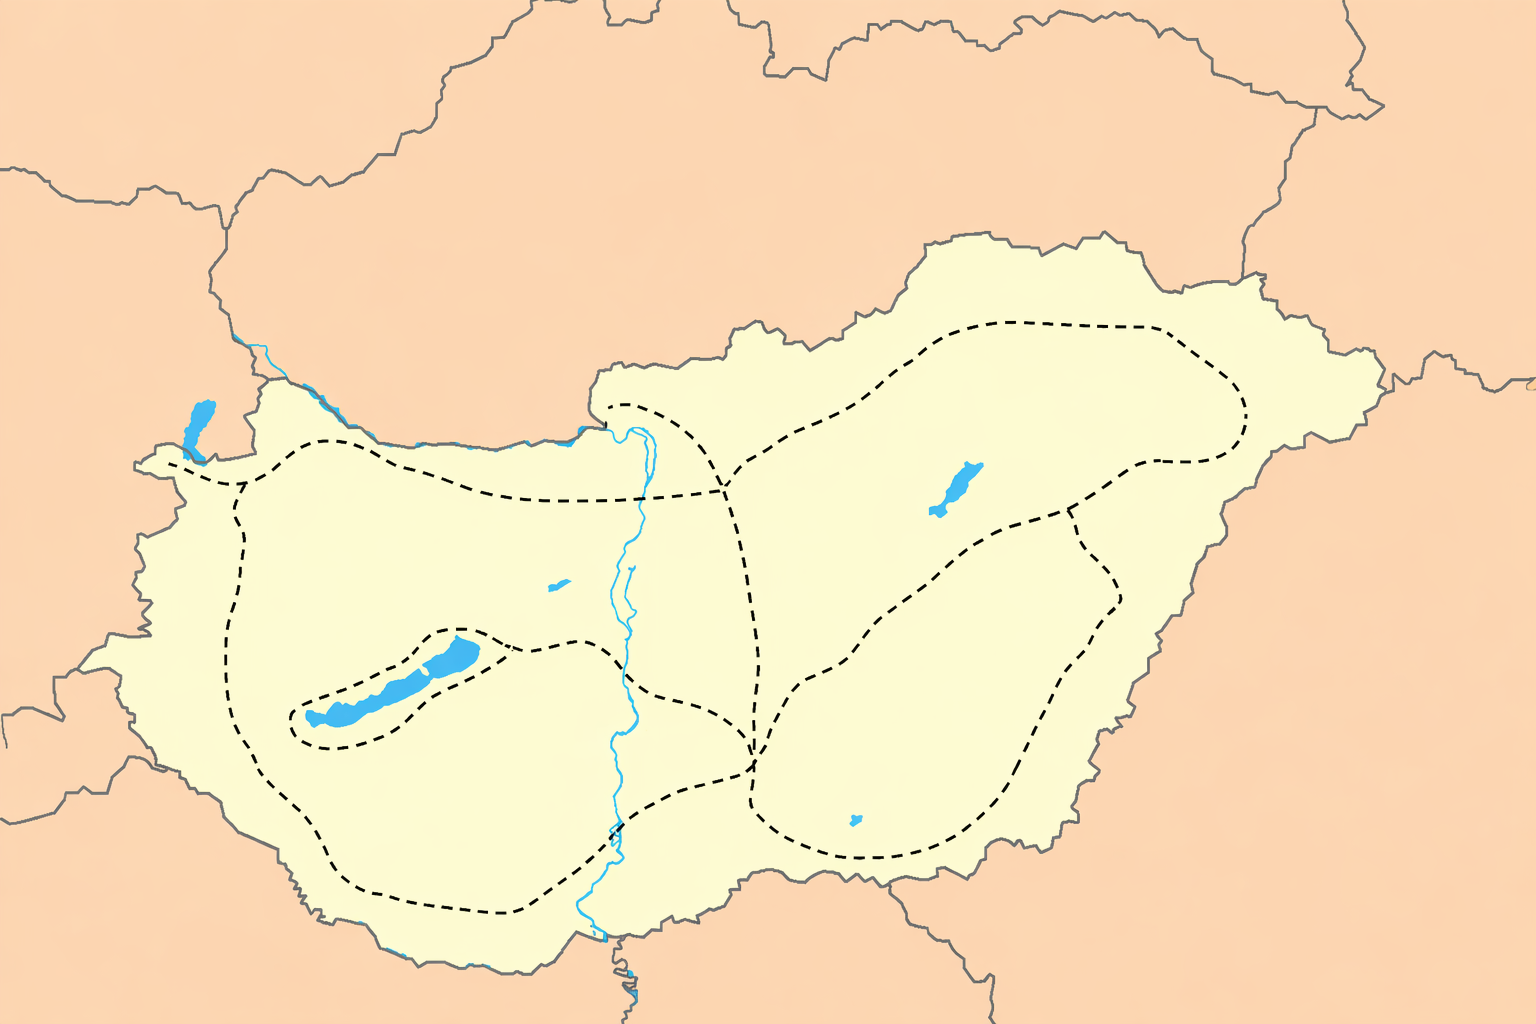
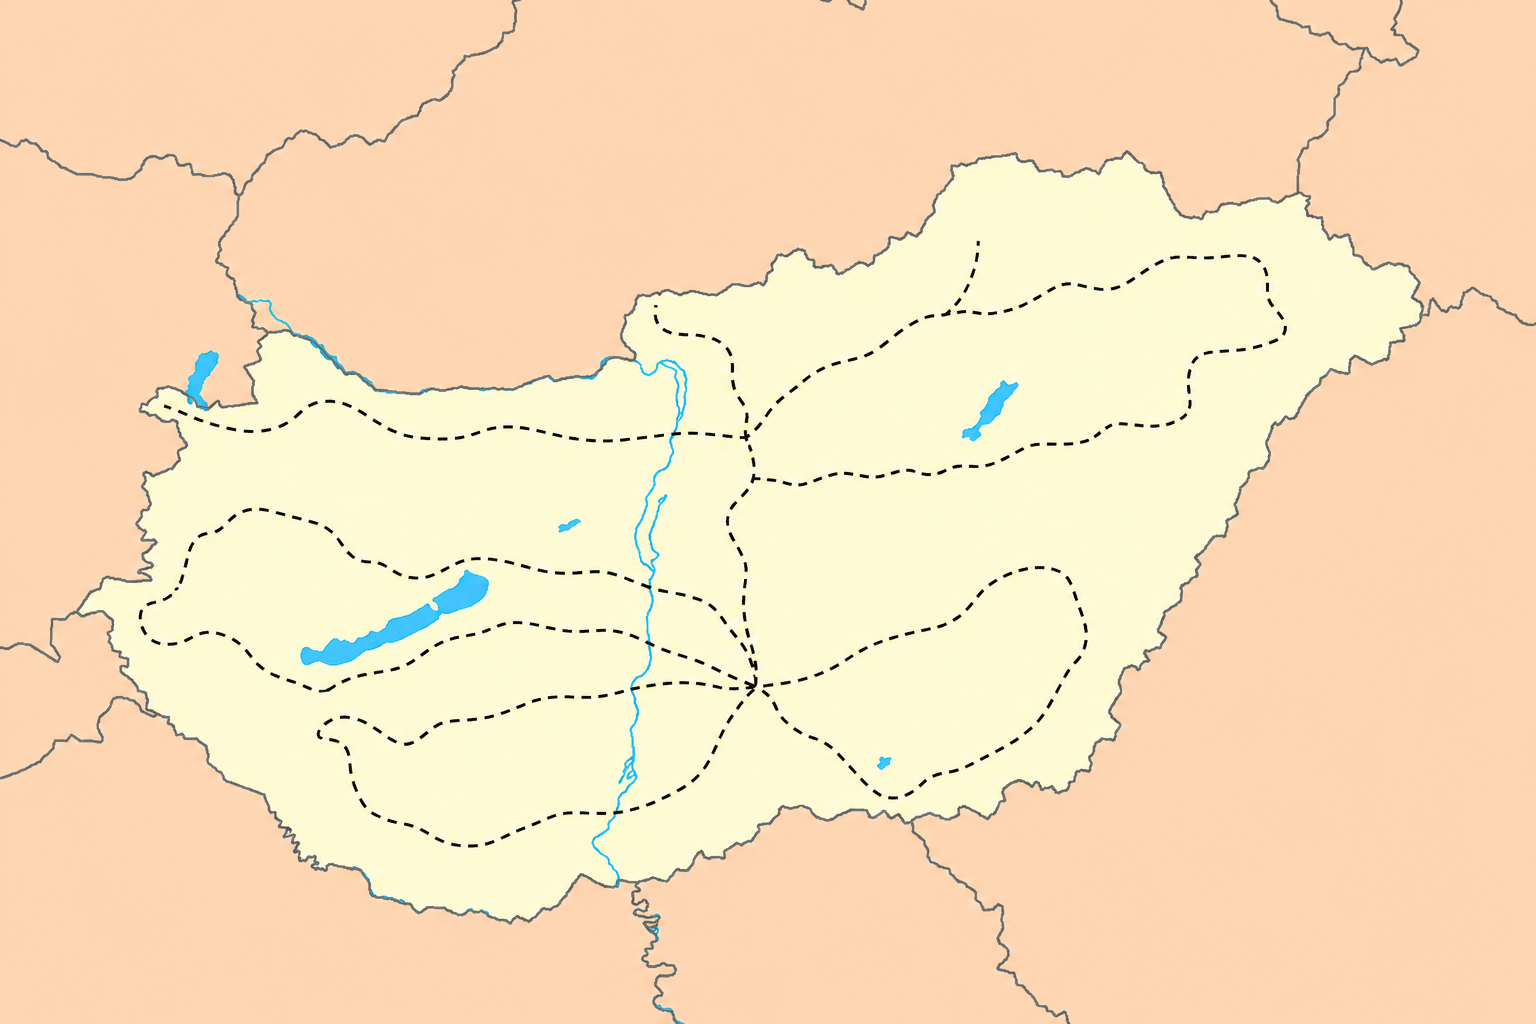
Refresh career gallery and logistics regions

diff --git a/utils/i18n.js b/utils/i18n.js
@@ -329,6 +329,50 @@ copy.de.home.faqItems = [
   { q: "Sind Produktionschargen r\u00fcckverfolgbar?", a: "Ja, unser R\u00fcckverfolgungssystem dokumentiert die Verbindung vom Rohstofflieferanten bis zum Kunden." },
 ];
 
+copy.hu.home.faqItems.push(
+  { q: "Mi a minim\u00e1lisan rendelhet\u0151 mennyis\u00e9g?", a: "Ahhoz, hogy a term\u00e9keket kisz\u00e1ll\u00edtsuk, legal\u00e1bb 20 kg / k\u00e9t karton h\u00fast kell rendelni." },
+  { q: "Mag\u00e1nszem\u00e9lyeket is kiszolg\u00e1lnak?", a: "Sajnos egyel\u0151re nem, k\u00e9rj\u00fck, \u00e9rdekl\u0151dj\u00f6n nagyker partnereinkn\u00e9l!" },
+  { q: "Csak eg\u00e9sz kartonnal lehet rendelni?", a: "Igen, a legt\u00f6bb term\u00e9k\u00fcnkb\u0151l csak eg\u00e9sz kartonnal lehet rendelni: s\u00fclt h\u00fasok, t\u00e9pett h\u00fas, pita, saslik, stb." }
+);
+copy.en.home.faqItems.push(
+  { q: "What is the minimum order quantity?", a: "For delivery, at least 20 kg / two cartons of meat must be ordered." },
+  { q: "Do you serve private individuals?", a: "Unfortunately not at the moment. Please contact our wholesale partners." },
+  { q: "Can products be ordered only by full carton?", a: "Yes, most products are available by full carton only, including roasted meats, pulled meat, pita and shashlik." }
+);
+copy.de.home.faqItems.push(
+  { q: "Was ist die Mindestbestellmenge?", a: "F\u00fcr die Lieferung m\u00fcssen mindestens 20 kg / zwei Kartons Fleisch bestellt werden." },
+  { q: "Beliefern Sie auch Privatpersonen?", a: "Derzeit leider nicht. Bitte wenden Sie sich an unsere Gro\u00dfhandelspartner." },
+  { q: "Kann man nur ganze Kartons bestellen?", a: "Ja, die meisten Produkte sind nur kartonweise erh\u00e4ltlich, darunter gebratenes Fleisch, Pulled Meat, Pita und Schaschlik." }
+);
+
+logisticsRegions.hu = [
+  { key: "northHungary", title: "\u00c9szak-Magyarorsz\u00e1g", text: "Cs\u00fct\u00f6rt\u00f6k\u00f6nk\u00e9nt indul\u00f3 j\u00e1ratainkkal el\u0151re tervezhet\u0151, h\u0171t\u00f6tt kisz\u00e1ll\u00edt\u00e1st biztos\u00edtunk az \u00e9szaki partnereknek." },
+  { key: "northAlfold", title: "\u00c9szak-Alf\u00f6ld", text: "P\u00e9ntekenk\u00e9nt \u00fctemezett sz\u00e1ll\u00edt\u00e1s, stabil h\u0171t\u0151l\u00e1nccal \u00e9s nagykereskedelmi partnerekhez igaz\u00edtott fordul\u00f3kkal." },
+  { key: "southAlfold", title: "D\u00e9l-Alf\u00f6ld", text: "H\u00e9tf\u0151nk\u00e9nt kiszolg\u00e1lt, Kiskunhalashoz k\u00f6zeli z\u00f3na, gyors egyeztet\u00e9ssel \u00e9s rugalmas partnerkiszolg\u00e1l\u00e1ssal." },
+  { key: "centralWestDunantul", title: "K\u00f6z\u00e9p-Nyugat-Dun\u00e1nt\u00fal", text: "Szerd\u00e1nk\u00e9nt tervezett dun\u00e1nt\u00fali \u00fatvonal, amely a k\u00f6z\u00e9ps\u0151 \u00e9s nyugati partnerek kiszolg\u00e1l\u00e1s\u00e1t fogja \u00f6ssze." },
+  { key: "southDunantul", title: "D\u00e9l-Dun\u00e1nt\u00fal", text: "Szerdai fordul\u00f3val \u00e9rhet\u0151 el, \u00edgy a d\u00e9li dun\u00e1nt\u00fali partnerek heti ritmusban, kisz\u00e1m\u00edthat\u00f3an rendelhetnek." },
+  { key: "centralHungary", title: "K\u00f6z\u00e9p-Magyarorsz\u00e1g", text: "Keddenk\u00e9nt \u00e9s p\u00e9ntekenk\u00e9nt is kiszolg\u00e1lt, s\u0171r\u0171 partnerh\u00e1l\u00f3val \u00e9s kiemelt HORECA f\u00f3kusszal m\u0171k\u00f6d\u0151 z\u00f3na." },
+  { key: "balaton", title: "Balaton t\u00e9rs\u00e9ge", text: "H\u00e9tf\u0151nk\u00e9nt \u00e9s cs\u00fct\u00f6rt\u00f6k\u00f6nk\u00e9nt kiszolg\u00e1lt, szezonban is kiemelten kezelt Balaton k\u00f6rny\u00e9ki \u00fatvonal." },
+];
+logisticsRegions.en = [
+  { key: "northHungary", title: "Northern Hungary", text: "Thursday deliveries provide predictable refrigerated service for partners in the northern region." },
+  { key: "northAlfold", title: "Northern Great Plain", text: "Friday scheduled deliveries with a stable cold chain and routes adapted to wholesale partners." },
+  { key: "southAlfold", title: "Southern Great Plain", text: "Monday service from the Kiskunhalas area, supporting quick coordination and flexible partner handling." },
+  { key: "centralWestDunantul", title: "Central-West Transdanubia", text: "Wednesday Transdanubian route connecting central and western partners in one planned delivery rhythm." },
+  { key: "southDunantul", title: "Southern Transdanubia", text: "Wednesday route for southern Transdanubian partners with predictable weekly refrigerated delivery." },
+  { key: "centralHungary", title: "Central Hungary", text: "Tuesday and Friday service with a dense partner network and a strong HORECA focus." },
+  { key: "balaton", title: "Lake Balaton area", text: "Monday and Thursday deliveries on a priority Balaton route, especially useful during the season." },
+];
+logisticsRegions.de = [
+  { key: "northHungary", title: "Nordungarn", text: "Donnerstags geplante Lieferungen sichern eine gut planbare gek\u00fchlte Versorgung der n\u00f6rdlichen Partner." },
+  { key: "northAlfold", title: "N\u00f6rdliche Tiefebene", text: "Freitags geplante Auslieferung mit stabiler K\u00fchlkette und auf Gro\u00dfhandelspartner abgestimmten Touren." },
+  { key: "southAlfold", title: "S\u00fcdliche Tiefebene", text: "Montags bediente Zone in der N\u00e4he von Kiskunhalas mit schneller Abstimmung und flexibler Betreuung." },
+  { key: "centralWestDunantul", title: "Mittel-West-Transdanubien", text: "Mittwochs geplante Transdanubien-Route f\u00fcr zentrale und westliche Partner in einem festen Lieferrhythmus." },
+  { key: "southDunantul", title: "S\u00fcd-Transdanubien", text: "Mittwochs erreichbar, damit s\u00fcdtransdanubische Partner w\u00f6chentlich und planbar beliefert werden." },
+  { key: "centralHungary", title: "Mittelungarn", text: "Dienstags und freitags bediente Zone mit dichtem Partnernetz und starkem HORECA-Fokus." },
+  { key: "balaton", title: "Balaton-Region", text: "Montags und donnerstags bediente Priorit\u00e4tsroute rund um den Balaton, besonders wichtig in der Saison." },
+];
+
 function getLang(value) { return supportedLanguages.includes(value) ? value : defaultLanguage; }
 function getTranslations(lang) { return copy[getLang(lang)]; }
 function getWholesaleCatalog(lang) { return productCatalog[getLang(lang)]; }
@@ -341,24 +385,19 @@ function getOrderProductOptions(lang) {
 }
 function getGrantItems(lang) { return grantItems[getLang(lang)]; }
 const logisticsPanelPositions = {
-  west: "panel-bottom-right",
-  central: "panel-top-right",
-  north: "panel-bottom-left",
-  east: "panel-top-left",
-  south: "panel-top-right",
+  northHungary: "panel-bottom-left",
+  northAlfold: "panel-bottom-left",
+  southAlfold: "panel-top-right",
+  centralWestDunantul: "panel-bottom-right",
+  southDunantul: "panel-top-right",
+  centralHungary: "panel-bottom-left",
   balaton: "panel-bottom-right",
 };
 
 const logisticsRegionExtras = {
-  hu: [
-    { key: "balaton", title: "Balaton \u00e9s t\u00e9rs\u00e9ge", text: "Kiemelt szezon\u00e1lis \u00e9s \u00e1lland\u00f3 \u00fatvonal, gyors partnerkiszolg\u00e1l\u00e1ssal a Balaton k\u00f6rnyezet\u00e9ben." },
-  ],
-  en: [
-    { key: "balaton", title: "Lake Balaton area", text: "Priority seasonal and permanent route with fast partner coverage around Lake Balaton." },
-  ],
-  de: [
-    { key: "balaton", title: "Balaton-Region", text: "Bevorzugte saisonale und dauerhafte Route mit schneller Partnerbelieferung rund um den Balaton." },
-  ],
+  hu: [],
+  en: [],
+  de: [],
 };
 
 function getLogisticsRegions(lang) {

diff --git a/public/js/main.js b/public/js/main.js
@@ -62,11 +62,12 @@ const regionChips = document.querySelectorAll(".region-chip");
 const logisticsPanelTitle = document.getElementById("logisticsPanelTitle");
 const logisticsPanelText = document.getElementById("logisticsPanelText");
 const mapNodes = {
-  west: document.querySelector(".map-node-west"),
-  central: document.querySelector(".map-node-central"),
-  north: document.querySelector(".map-node-north"),
-  east: document.querySelector(".map-node-east"),
-  south: document.querySelector(".map-node-south"),
+  northHungary: document.querySelector(".map-node-north-hungary"),
+  northAlfold: document.querySelector(".map-node-north-alfold"),
+  southAlfold: document.querySelector(".map-node-south-alfold"),
+  centralWestDunantul: document.querySelector(".map-node-central-west-dunantul"),
+  southDunantul: document.querySelector(".map-node-south-dunantul"),
+  centralHungary: document.querySelector(".map-node-central-hungary"),
   balaton: document.querySelector(".map-node-balaton"),
 };
 
@@ -160,36 +161,27 @@ const zipResult = document.getElementById("zipResult");
 const zipLabels = document.querySelector(".zip-labels");
 
 if (zipInput && zipResult && zipLabels) {
-  // Hungarian postal code → delivery region (2-digit prefix mapping)
-  // 1xxx Budapest, 2xxx Pest → central
-  // 3xxx Észak-Magyarország → north
-  // 4xxx Hajdú-Bihar, Szabolcs, Jász → east
-  // 50-52xx Szolnok area → east, 53-59xx Békés → south
-  // 60-64xx Bács-Kiskun → south, 65-69xx Csongrád → south
-  // 70-72xx Baranya → west, 73-74xx Tolna → west, 75-77xx Somogy → west
-  // 80-81xx Székesfehérvár/Fejér → central, 82-84xx Veszprém → balaton
-  // 85-87xx Zala → balaton, 88-89xx Veszprém/Balaton → balaton
-  // 90-96xx Győr-Moson-Sopron → west, 97-99xx Vas → west
+  // Hungarian postal code -> delivery region (2-digit prefix mapping)
   const zipMap2 = {
-    "10": "central", "11": "central", "12": "central", "13": "central", "14": "central",
-    "15": "central", "16": "central", "17": "central", "18": "central", "19": "central",
-    "20": "central", "21": "central", "22": "central", "23": "central", "24": "central",
-    "25": "central", "26": "central", "27": "central", "28": "central", "29": "central",
-    "30": "north", "31": "north", "32": "north", "33": "north", "34": "north",
-    "35": "north", "36": "north", "37": "north", "38": "north", "39": "north",
-    "40": "east", "41": "east", "42": "east", "43": "east", "44": "east",
-    "45": "east", "46": "east", "47": "east", "48": "east", "49": "east",
-    "50": "east", "51": "east", "52": "east",
-    "53": "south", "54": "south", "55": "south", "56": "south", "57": "south", "58": "south", "59": "south",
-    "60": "south", "61": "south", "62": "south", "63": "south", "64": "south",
-    "65": "south", "66": "south", "67": "south", "68": "south", "69": "south",
-    "70": "west", "71": "west", "72": "west", "73": "west", "74": "west",
-    "75": "west", "76": "west", "77": "west",
-    "80": "central", "81": "central",
+    "10": "centralHungary", "11": "centralHungary", "12": "centralHungary", "13": "centralHungary", "14": "centralHungary",
+    "15": "centralHungary", "16": "centralHungary", "17": "centralHungary", "18": "centralHungary", "19": "centralHungary",
+    "20": "centralHungary", "21": "centralHungary", "22": "centralHungary", "23": "centralHungary",
+    "24": "centralWestDunantul", "25": "centralWestDunantul", "26": "centralHungary", "27": "centralHungary", "28": "centralWestDunantul", "29": "centralHungary",
+    "30": "northHungary", "31": "northHungary", "32": "northHungary", "33": "northHungary", "34": "northHungary",
+    "35": "northHungary", "36": "northHungary", "37": "northHungary", "38": "northHungary", "39": "northHungary",
+    "40": "northAlfold", "41": "northAlfold", "42": "northAlfold", "43": "northAlfold", "44": "northAlfold",
+    "45": "northAlfold", "46": "northAlfold", "47": "northAlfold", "48": "northAlfold", "49": "northAlfold",
+    "50": "northAlfold", "51": "northAlfold", "52": "northAlfold",
+    "53": "southAlfold", "54": "southAlfold", "55": "southAlfold", "56": "southAlfold", "57": "southAlfold", "58": "southAlfold", "59": "southAlfold",
+    "60": "southAlfold", "61": "southAlfold", "62": "southAlfold", "63": "southAlfold", "64": "southAlfold",
+    "65": "southAlfold", "66": "southAlfold", "67": "southAlfold", "68": "southAlfold", "69": "southAlfold",
+    "70": "southDunantul", "71": "southDunantul", "72": "southDunantul", "73": "southDunantul", "74": "southDunantul",
+    "75": "southDunantul", "76": "southDunantul", "77": "southDunantul",
+    "80": "centralWestDunantul", "81": "centralWestDunantul",
     "82": "balaton", "83": "balaton", "84": "balaton",
     "85": "balaton", "86": "balaton", "87": "balaton", "88": "balaton", "89": "balaton",
-    "90": "west", "91": "west", "92": "west", "93": "west", "94": "west",
-    "95": "west", "96": "west", "97": "west", "98": "west", "99": "west",
+    "90": "centralWestDunantul", "91": "centralWestDunantul", "92": "centralWestDunantul", "93": "centralWestDunantul", "94": "centralWestDunantul",
+    "95": "centralWestDunantul", "96": "centralWestDunantul", "97": "centralWestDunantul", "98": "centralWestDunantul", "99": "centralWestDunantul",
   };
   const resultText = zipLabels.dataset.zipResult;
   const notFoundText = zipLabels.dataset.zipNotFound;
